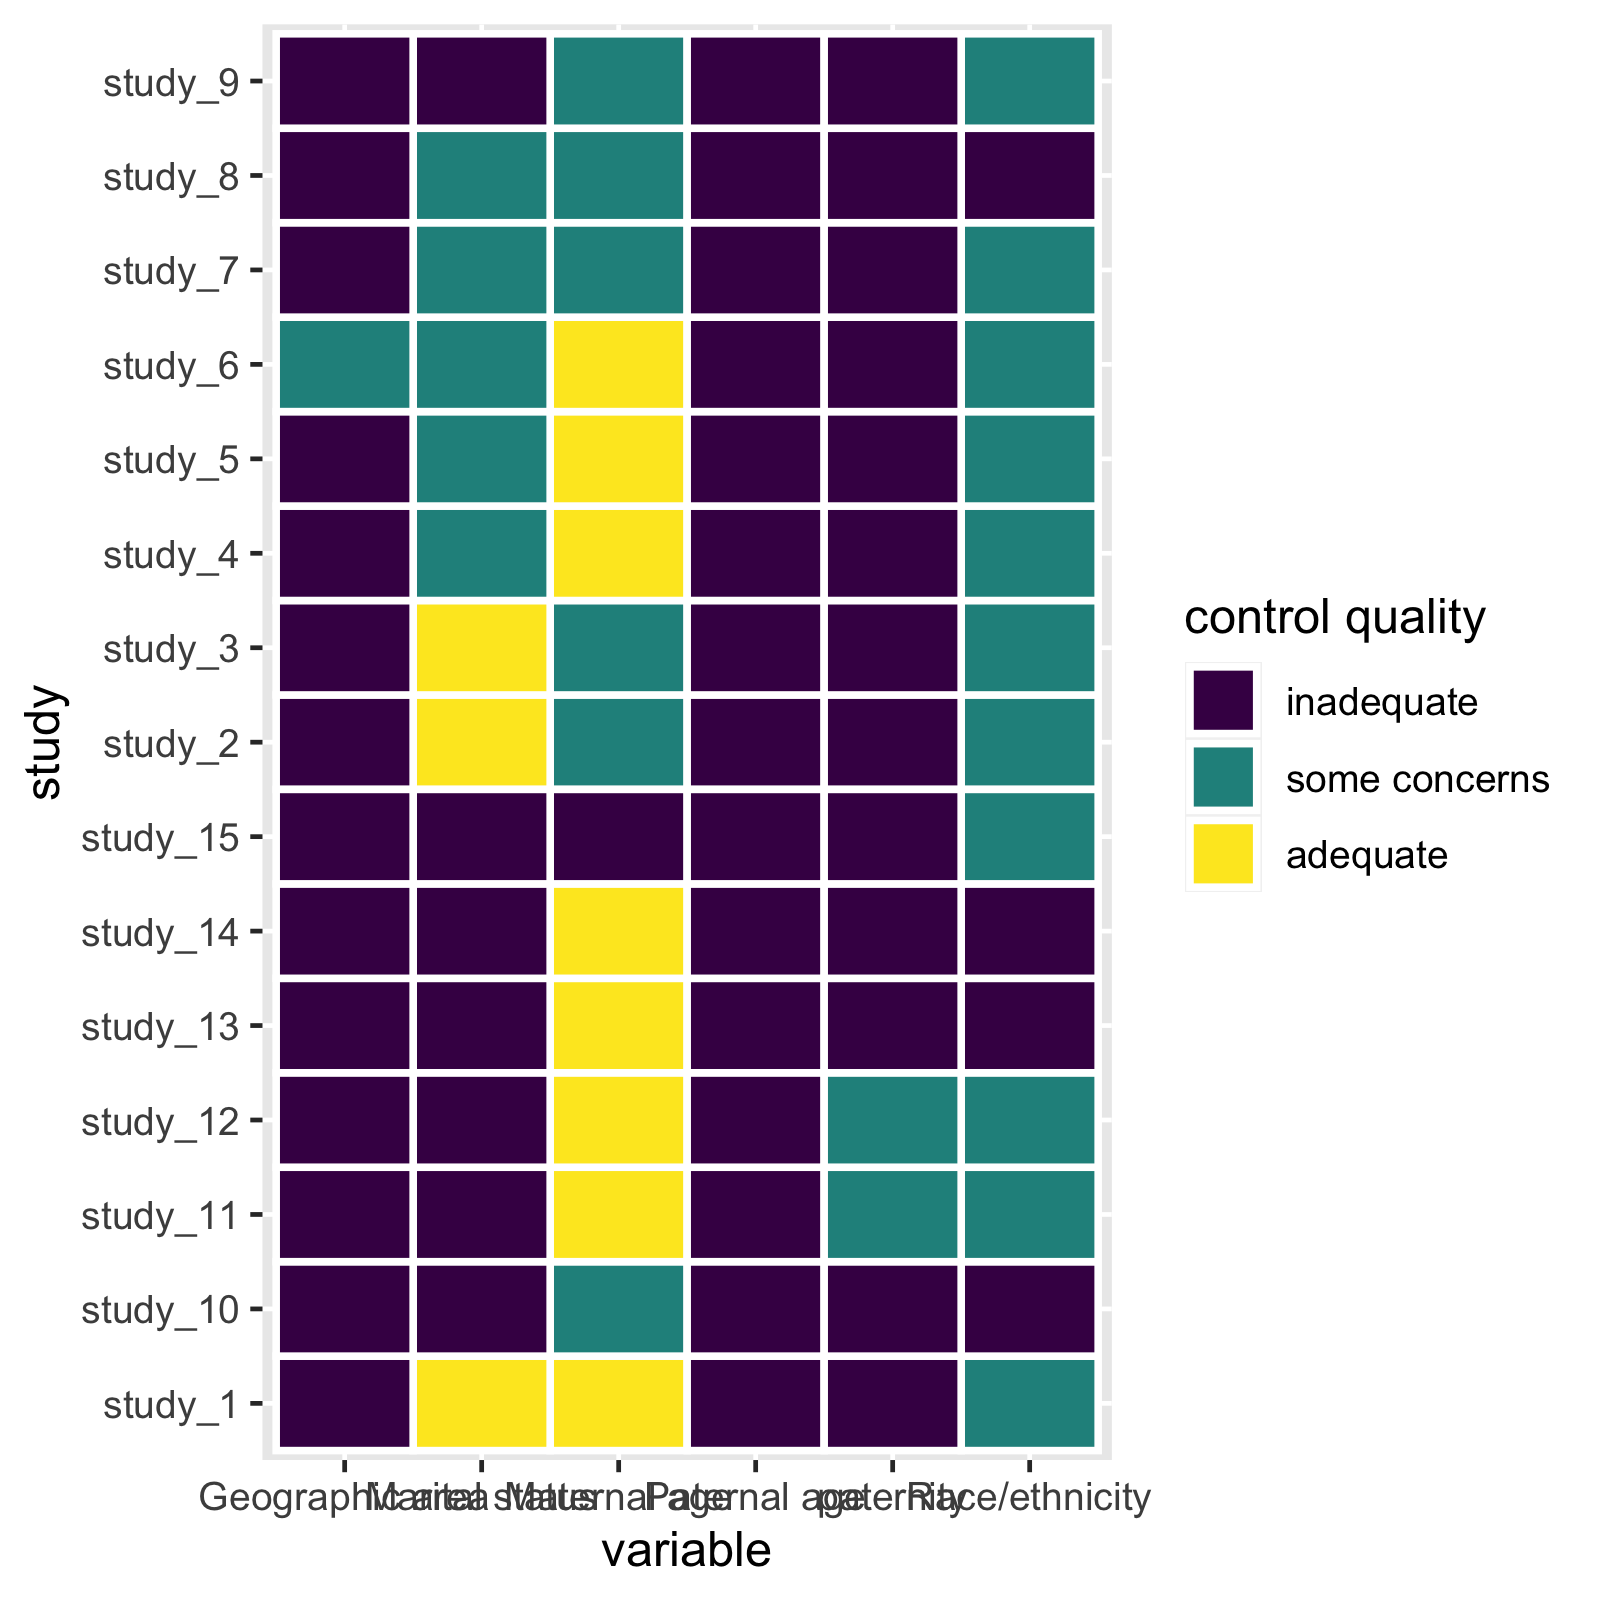
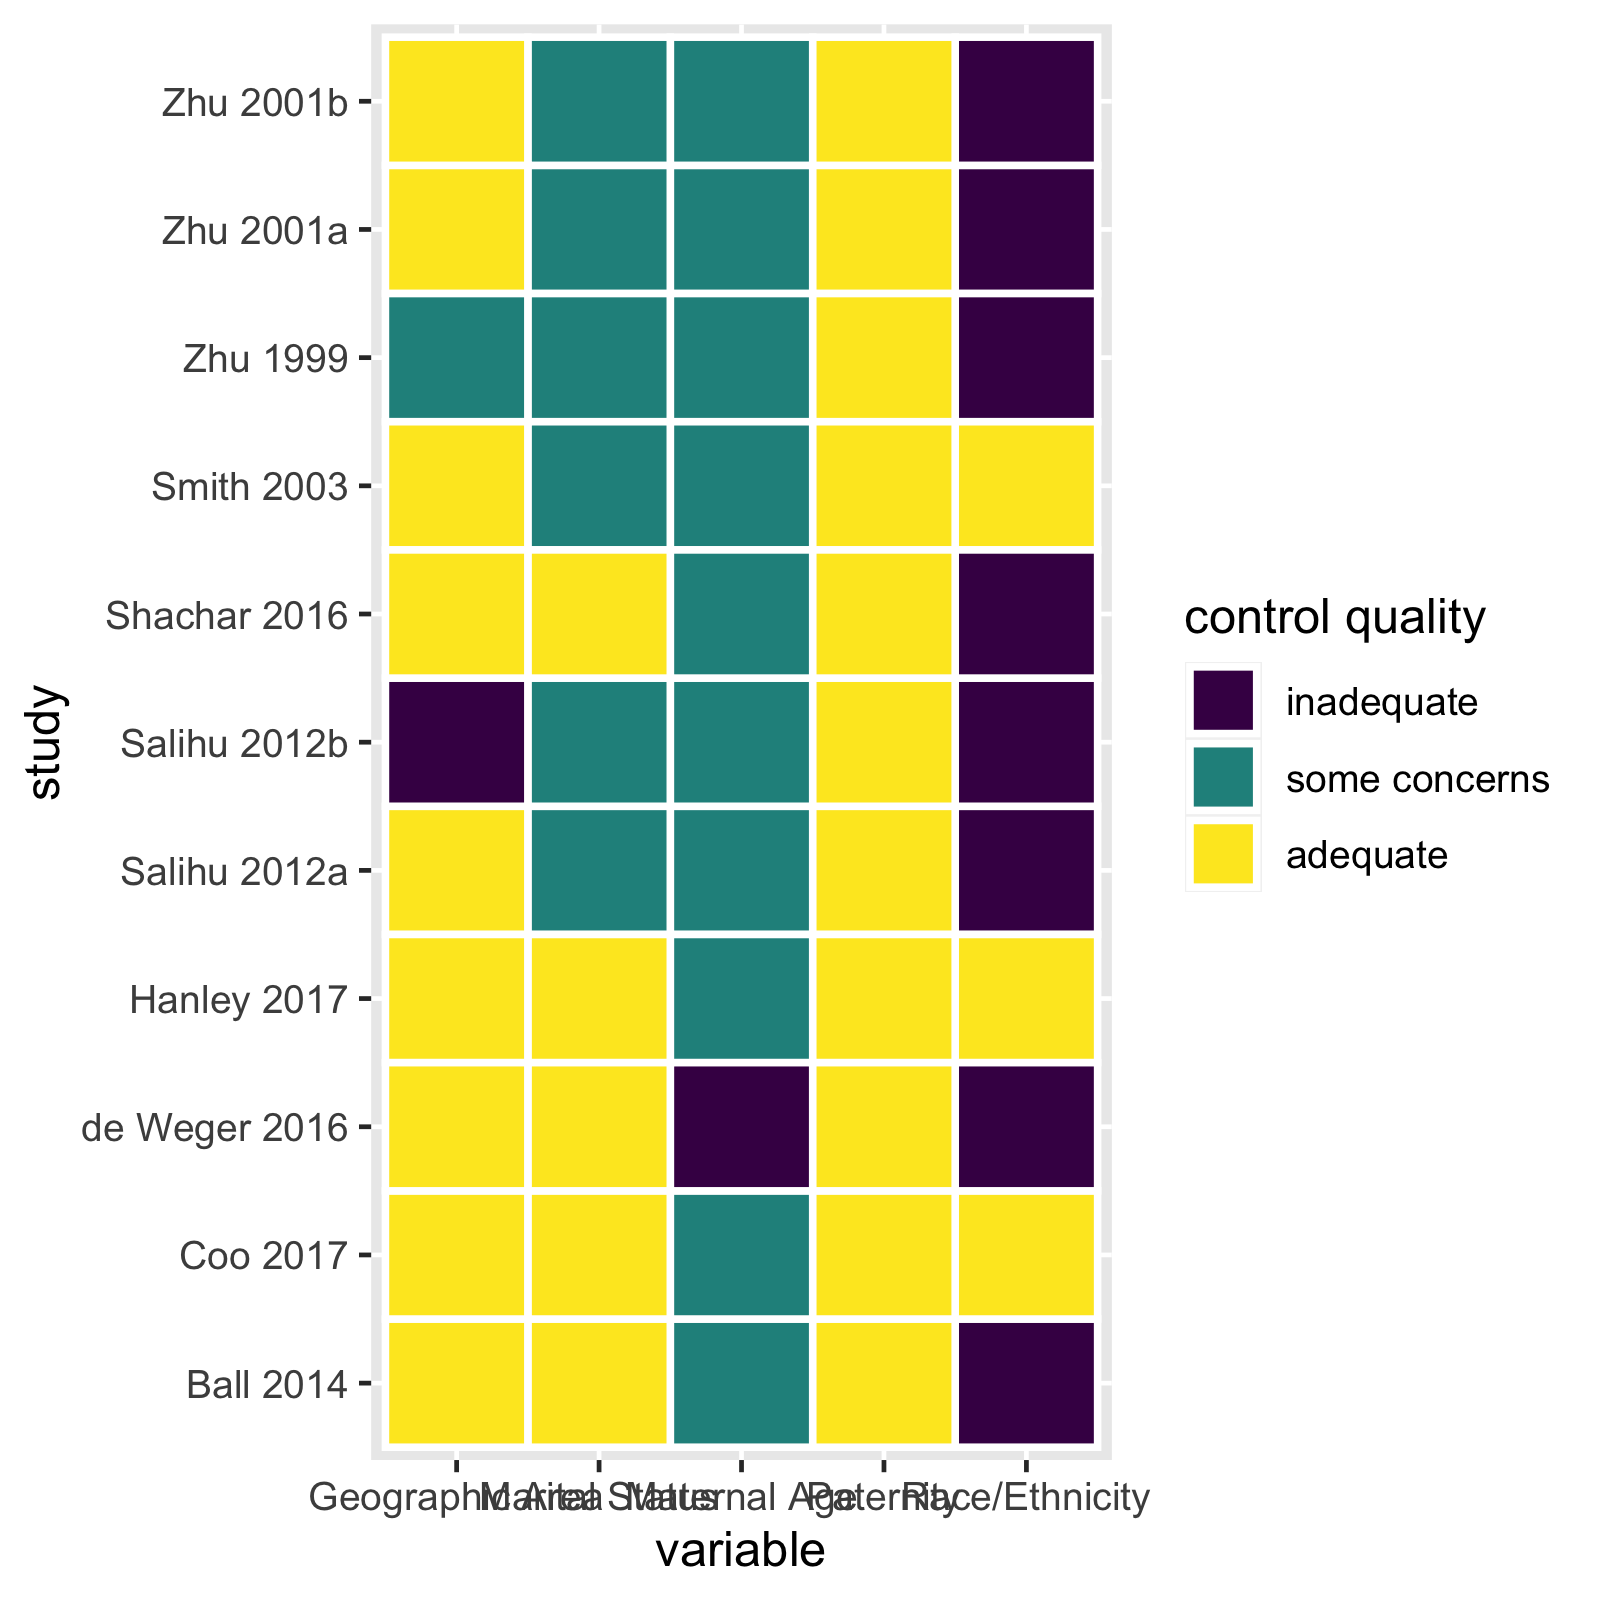
update readme

diff --git a/README.md b/README.md
@@ -54,20 +54,20 @@ mc_ipi <- metaconfoundr(ipi) %>%
   dplyr::filter(construct == "Sociodemographics")
 
 mc_ipi
-#> # A tibble: 90 x 5
-#>    construct         variable     is_confounder study    control_quality
-#>    <chr>             <chr>        <chr>         <chr>    <ord>          
-#>  1 Sociodemographics Maternal age Y             study_1  adequate       
-#>  2 Sociodemographics Maternal age Y             study_2  some concerns  
-#>  3 Sociodemographics Maternal age Y             study_3  some concerns  
-#>  4 Sociodemographics Maternal age Y             study_4  adequate       
-#>  5 Sociodemographics Maternal age Y             study_5  adequate       
-#>  6 Sociodemographics Maternal age Y             study_6  adequate       
-#>  7 Sociodemographics Maternal age Y             study_7  some concerns  
-#>  8 Sociodemographics Maternal age Y             study_8  some concerns  
-#>  9 Sociodemographics Maternal age Y             study_9  some concerns  
-#> 10 Sociodemographics Maternal age Y             study_10 some concerns  
-#> # … with 80 more rows
+#> # A tibble: 55 x 5
+#>    construct         variable     is_confounder study        control_quality
+#>    <chr>             <chr>        <chr>         <chr>        <ord>          
+#>  1 Sociodemographics Maternal Age Y             Zhu 2001a    some concerns  
+#>  2 Sociodemographics Maternal Age Y             Zhu 2001b    some concerns  
+#>  3 Sociodemographics Maternal Age Y             Zhu 1999     some concerns  
+#>  4 Sociodemographics Maternal Age Y             Salihu 2012a some concerns  
+#>  5 Sociodemographics Maternal Age Y             Salihu 2012b some concerns  
+#>  6 Sociodemographics Maternal Age Y             Smith 2003   some concerns  
+#>  7 Sociodemographics Maternal Age Y             Shachar 2016 some concerns  
+#>  8 Sociodemographics Maternal Age Y             Ball 2014    some concerns  
+#>  9 Sociodemographics Maternal Age Y             Coo 2017     some concerns  
+#> 10 Sociodemographics Maternal Age Y             Hanley 2017  some concerns  
+#> # … with 45 more rows
 ```
 
 metaconfoundr includes several tools for visualizing the results of a
